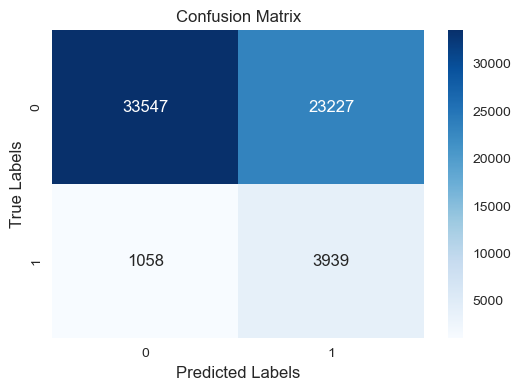
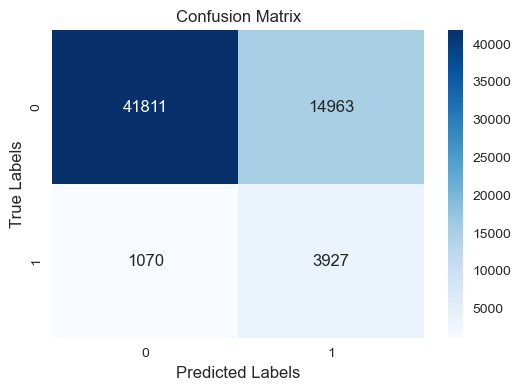
Updated Images(last time). Working on readme

diff --git a/README.md b/README.md
@@ -68,7 +68,7 @@ The X_train was scaled, fitted to the model.
 The X_test was scaled.
 
 ### The Regression
-Used Logical Regression
+Used logreg regression with class weight balanced to account for the imbalance between the Heart Disease Yes and No columns.
 
 ### Cross-validation
 Cross validation was used with 10 K-Folds to train the testing model. Scoring used the 
@@ -78,7 +78,7 @@ Receiver Operating Characteristic - Area Under Curve (roc-auc) to evaluate the m
 the roc-auc scores were then averaged
 
 ### Prediction
-The prediction was then run against the test model
+I set the threshold variable to 0.5 and ran the predictions.
 
 # Results of the Logistic Regression
 ## The Confusion Matrix
